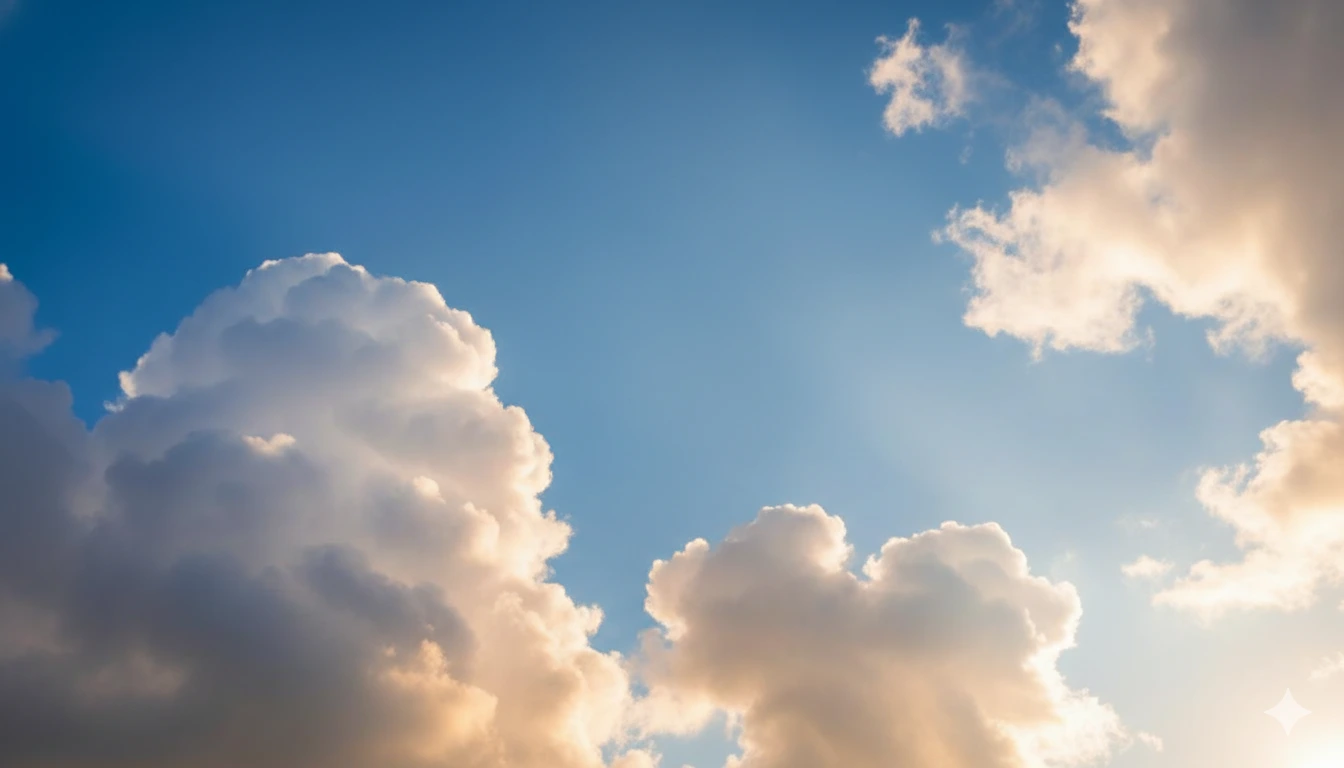
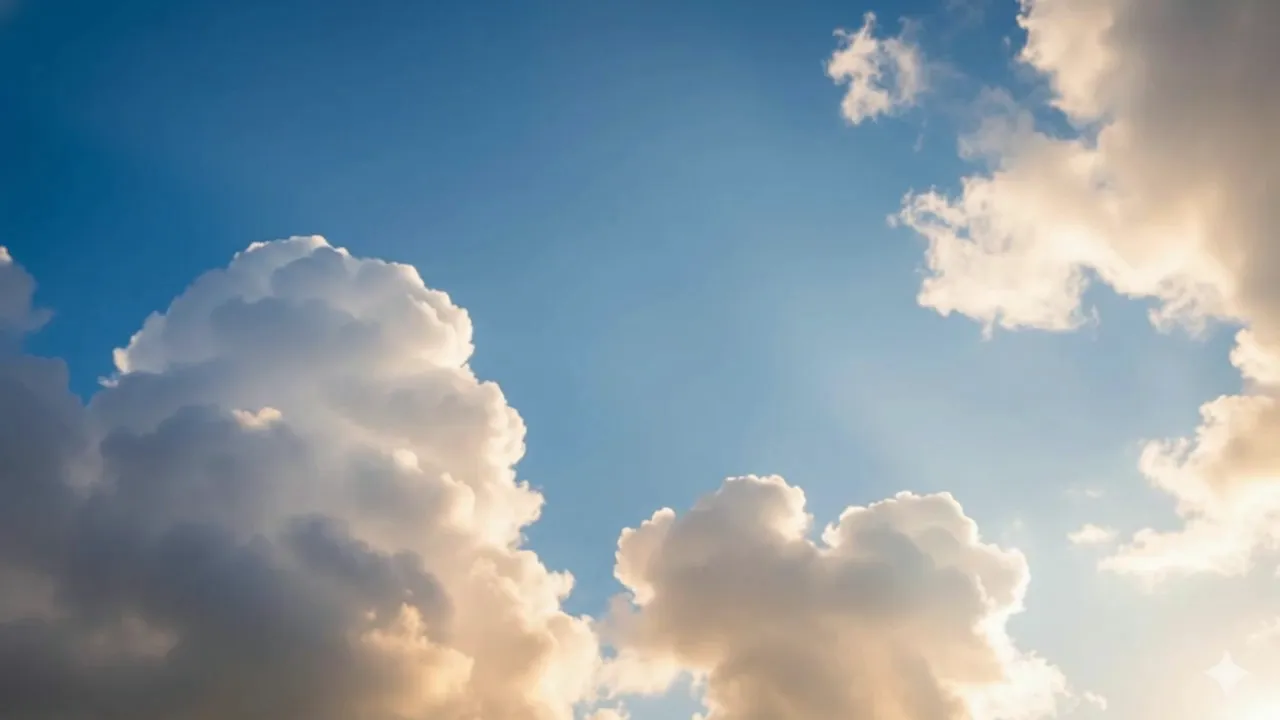
feat: add hero section image sequence and associated assets

diff --git a/js/main.js b/js/main.js
@@ -18,6 +18,7 @@ document.addEventListener('DOMContentLoaded', async function() {
     renderBlog();
   }
   initHeroParallax();
+  initHeroBackgroundSequence();
 });
 
 function initHeroParallax() {
@@ -59,6 +60,123 @@ function initHeroParallax() {
       buttons.forEach(btn => btn.classList.remove('reveal-visible'));
     }
   }, { passive: true });
+}
+
+function initHeroBackgroundSequence() {
+  const canvas = document.getElementById('hero-bg-canvas');
+  const hero = document.querySelector('.hero');
+  if (!canvas || !hero) return;
+
+  const ctx = canvas.getContext('2d');
+  if (!ctx) return;
+
+  const TOTAL_FRAMES = 120;
+  const frames = new Array(TOTAL_FRAMES);
+  let currentFrameIndex = -1;
+  let rafId = null;
+
+  function getFrameSrc(index) {
+    const pad = String(index).padStart(3, '0');
+    return `images/hero-sequence/frame_${pad}.webp`;
+  }
+
+  function getNearestLoadedFrame(targetIdx) {
+    if (frames[targetIdx] && frames[targetIdx].complete && frames[targetIdx].naturalWidth > 0) {
+      return frames[targetIdx];
+    }
+    for (let offset = 1; offset < TOTAL_FRAMES; offset++) {
+      const prev = targetIdx - offset;
+      if (prev >= 0 && frames[prev] && frames[prev].complete && frames[prev].naturalWidth > 0) {
+        return frames[prev];
+      }
+      const next = targetIdx + offset;
+      if (next < TOTAL_FRAMES && frames[next] && frames[next].complete && frames[next].naturalWidth > 0) {
+        return frames[next];
+      }
+    }
+    return null;
+  }
+
+  function drawFrame(index) {
+    const img = getNearestLoadedFrame(index);
+    if (!img) return;
+
+    ctx.drawImage(img, 0, 0, canvas.width, canvas.height);
+    currentFrameIndex = index;
+    if (!canvas.classList.contains('is-ready')) {
+      canvas.classList.add('is-ready');
+    }
+  }
+
+  function updateOnScroll() {
+    const scrolled = window.scrollY;
+    const heroHeight = hero.offsetHeight || window.innerHeight;
+
+    // Sincronizado: avanza cuando se hace scroll hacia abajo, retrocede hacia arriba (ambos sentidos)
+    const progress = Math.min(1, Math.max(0, scrolled / heroHeight));
+    const targetIndex = Math.min(TOTAL_FRAMES - 1, Math.floor(progress * (TOTAL_FRAMES - 1)));
+
+    if (targetIndex !== currentFrameIndex) {
+      if (!rafId) {
+        rafId = requestAnimationFrame(() => {
+          drawFrame(targetIndex);
+          rafId = null;
+        });
+      }
+    }
+  }
+
+  // Cargar frame 0 de inmediato
+  const firstFrame = new Image();
+  firstFrame.src = getFrameSrc(0);
+  frames[0] = firstFrame;
+  firstFrame.onload = () => {
+    drawFrame(0);
+    preloadRemainingFrames();
+  };
+  if (firstFrame.complete && firstFrame.naturalWidth > 0) {
+    drawFrame(0);
+    preloadRemainingFrames();
+  }
+
+  let preloadingStarted = false;
+  function preloadRemainingFrames() {
+    if (preloadingStarted) return;
+    preloadingStarted = true;
+
+    let nextIndex = 1;
+    const batchSize = 6;
+
+    function loadNextBatch() {
+      if (nextIndex >= TOTAL_FRAMES) return;
+      const end = Math.min(TOTAL_FRAMES, nextIndex + batchSize);
+      for (let i = nextIndex; i < end; i++) {
+        if (!frames[i]) {
+          const img = new Image();
+          img.src = getFrameSrc(i);
+          frames[i] = img;
+        }
+      }
+      nextIndex = end;
+      if (nextIndex < TOTAL_FRAMES) {
+        if ('requestIdleCallback' in window) {
+          requestIdleCallback(() => loadNextBatch(), { timeout: 200 });
+        } else {
+          setTimeout(loadNextBatch, 60);
+        }
+      }
+    }
+
+    if ('requestIdleCallback' in window) {
+      requestIdleCallback(() => loadNextBatch(), { timeout: 150 });
+    } else {
+      setTimeout(loadNextBatch, 100);
+    }
+  }
+
+  window.addEventListener('scroll', updateOnScroll, { passive: true });
+  window.addEventListener('resize', updateOnScroll, { passive: true });
+  updateOnScroll();
 }
 
 async function loadSiteData() {

diff --git a/css/style.css b/css/style.css
@@ -471,6 +471,22 @@ button {
   z-index: 0;
 }
 
+.hero-bg-canvas {
+  width: 100%;
+  height: 100%;
+  object-fit: cover;
+  position: absolute;
+  inset: 0;
+  z-index: 1;
+  pointer-events: none;
+  opacity: 0;
+  transition: opacity 0.4s ease;
+}
+
+.hero-bg-canvas.is-ready {
+  opacity: 1;
+}
+
 .hero-plane-image {
   position: absolute;
   top: 50%;

diff --git a/index.php b/index.php
@@ -9,7 +9,8 @@ include 'includes/header.php';
 <!-- HERO -->
 <section id="inicio" class="hero">
     <div class="hero-bg">
-        <img src="images/backround.webp" class="hero-bg-image" alt="Nubes de fondo" fetchpriority="high">
+        <canvas id="hero-bg-canvas" class="hero-bg-canvas" width="1280" height="720" aria-hidden="true"></canvas>
+        <img src="images/hero-sequence/frame_000.webp" class="hero-bg-image" alt="Nubes de fondo" fetchpriority="high">
         <img src="images/plane.webp" class="hero-plane-image" alt="Avión">
         <div class="hero-gradient"></div>
     </div>
